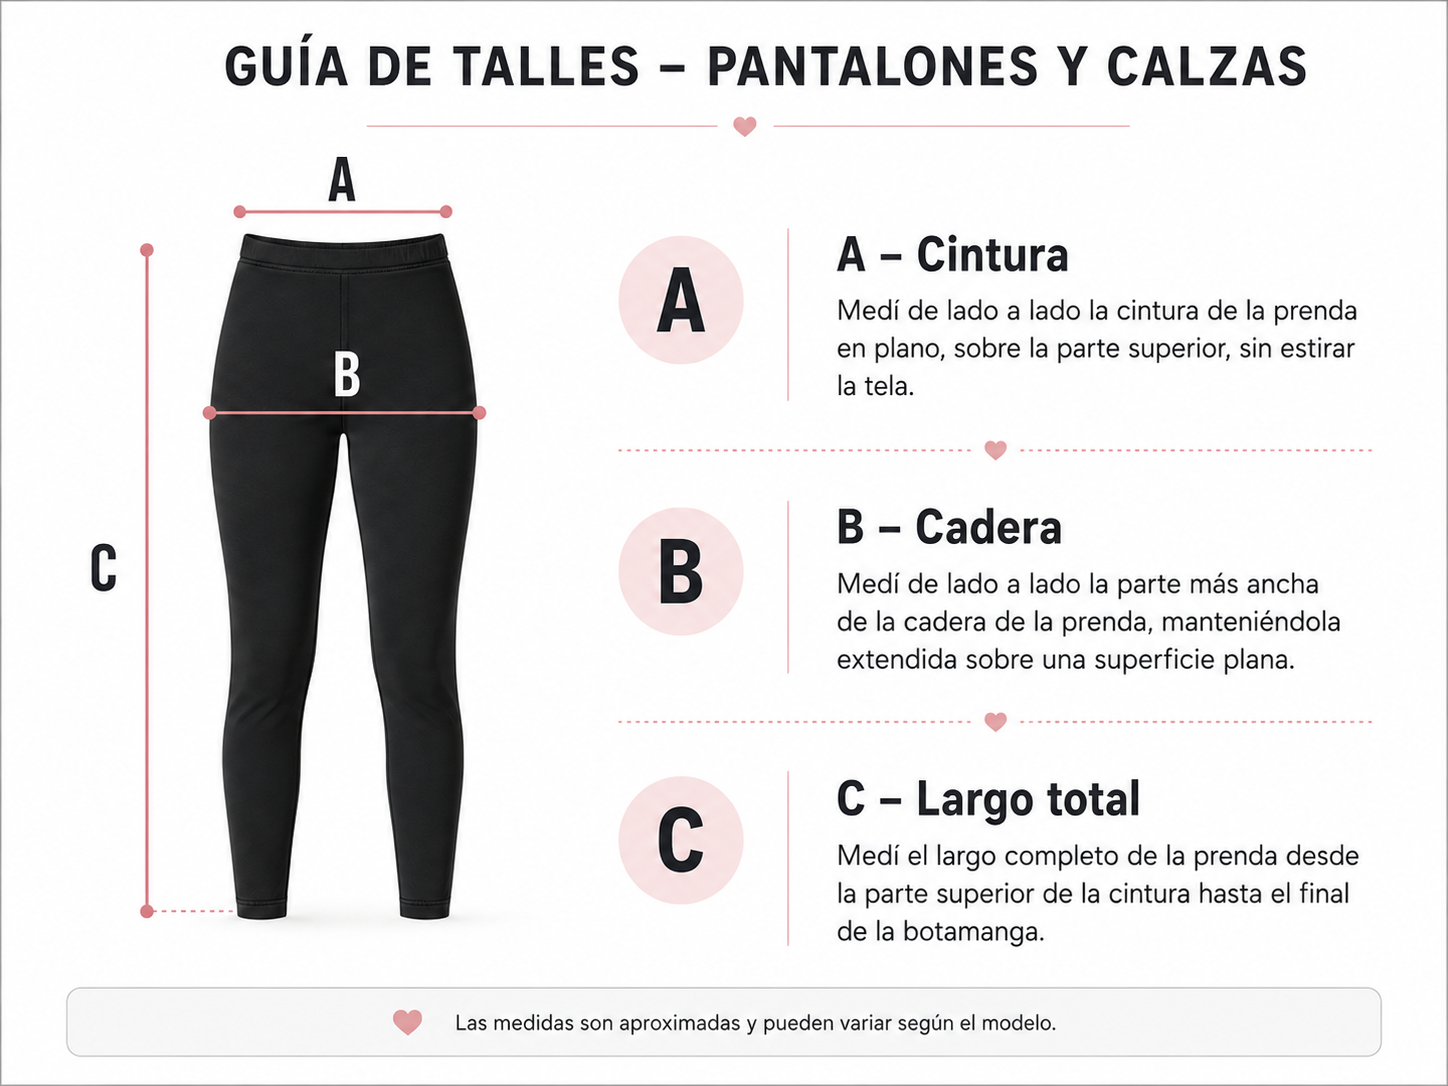
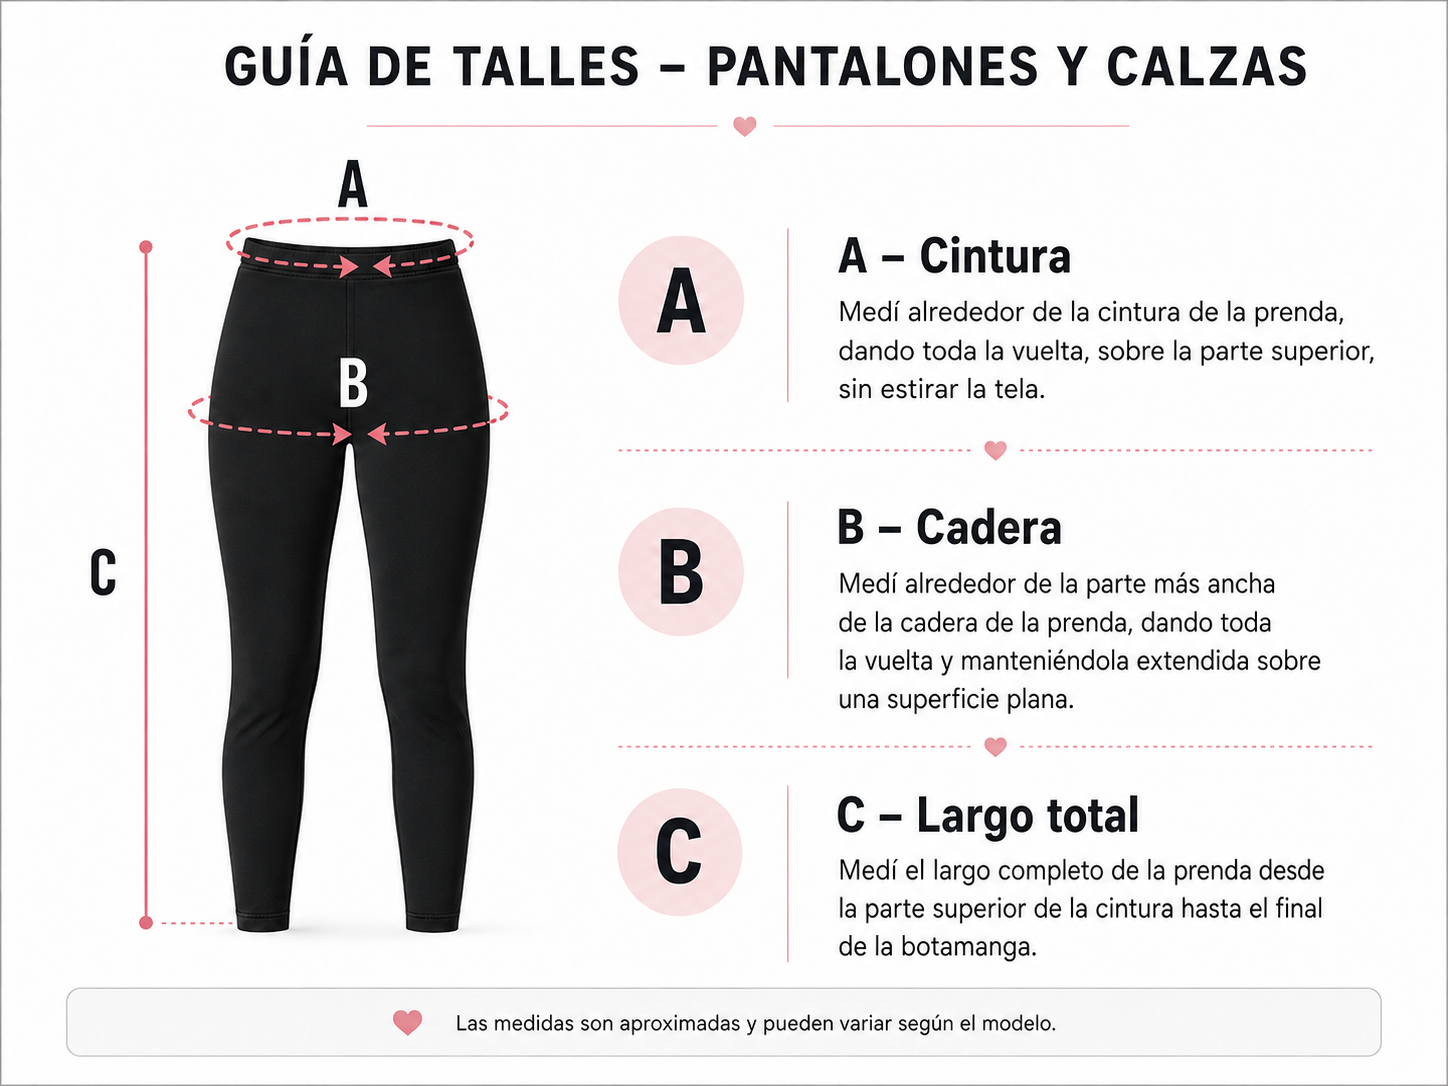
update tablas

diff --git a/frontend/public/ayuda.html b/frontend/public/ayuda.html
@@ -684,14 +684,14 @@
                   <tr><th>Talle</th><th>A (Cintura)</th><th>B (Cadera)</th><th>C (Largo total)</th></tr>
                 </thead>
                 <tbody>
-                  <tr><td>1</td><td>60-64</td><td>86-90</td><td>98</td></tr>
-                  <tr><td>2</td><td>64-68</td><td>90-94</td><td>99</td></tr>
-                  <tr><td>3</td><td>68-72</td><td>94-98</td><td>100</td></tr>
-                  <tr><td>4</td><td>72-76</td><td>98-102</td><td>101</td></tr>
-                  <tr><td>5</td><td>76-80</td><td>102-106</td><td>102</td></tr>
-                  <tr><td>6</td><td>80-84</td><td>106-110</td><td>103</td></tr>
-                  <tr><td>7</td><td>84-88</td><td>110-114</td><td>104</td></tr>
-                  <tr><td>8</td><td>88-92</td><td>114-118</td><td>105</td></tr>
+                  <tr><td>1</td><td>74-78</td><td>98-102</td><td>109</td></tr>
+                  <tr><td>2</td><td>78-82</td><td>102-106</td><td>110</td></tr>
+                  <tr><td>3</td><td>82-86</td><td>106-110</td><td>111</td></tr>
+                  <tr><td>4</td><td>86-90</td><td>110-114</td><td>112</td></tr>
+                  <tr><td>5</td><td>90-94</td><td>114-118</td><td>113</td></tr>
+                  <tr><td>6</td><td>94-98</td><td>118-122</td><td>114</td></tr>
+                  <tr><td>7</td><td>98-102</td><td>122-126</td><td>115</td></tr>
+                  <tr><td>8</td><td>102-106</td><td>126-130</td><td>116</td></tr>
                 </tbody>
               </table>
             </div>
@@ -709,14 +709,14 @@
                   <tr><th>Talle</th><th>A (Busto)</th><th>B (Cintura)</th><th>C (Largo total)</th></tr>
                 </thead>
                 <tbody>
-                  <tr><td>1</td><td>80-84</td><td>60-64</td><td>60</td></tr>
-                  <tr><td>2</td><td>84-88</td><td>64-68</td><td>61</td></tr>
-                  <tr><td>3</td><td>88-92</td><td>68-72</td><td>62</td></tr>
-                  <tr><td>4</td><td>92-96</td><td>72-76</td><td>63</td></tr>
-                  <tr><td>5</td><td>96-100</td><td>76-80</td><td>64</td></tr>
-                  <tr><td>6</td><td>100-104</td><td>80-84</td><td>65</td></tr>
-                  <tr><td>7</td><td>104-108</td><td>84-88</td><td>66</td></tr>
-                  <tr><td>8</td><td>108-112</td><td>88-92</td><td>67</td></tr>
+                  <tr><td>1</td><td>92-96</td><td>88-92</td><td>61</td></tr>
+                  <tr><td>2</td><td>96-100</td><td>92-96</td><td>62</td></tr>
+                  <tr><td>3</td><td>100-104</td><td>96-100</td><td>63</td></tr>
+                  <tr><td>4</td><td>104-108</td><td>100-104</td><td>64</td></tr>
+                  <tr><td>5</td><td>108-112</td><td>104-108</td><td>65</td></tr>
+                  <tr><td>6</td><td>112-116</td><td>108-112</td><td>66</td></tr>
+                  <tr><td>7</td><td>116-120</td><td>112-116</td><td>67</td></tr>
+                  <tr><td>8</td><td>120-124</td><td>116-120</td><td>68</td></tr>
                 </tbody>
               </table>
             </div>
@@ -739,14 +739,14 @@
                   <tr><th>Talle</th><th>A (Cintura)</th><th>B (Cadera)</th><th>C (Largo total)</th></tr>
                 </thead>
                 <tbody>
-                  <tr><td>1</td><td>70-74</td><td>90-94</td><td>102</td></tr>
-                  <tr><td>2</td><td>74-78</td><td>94-98</td><td>103</td></tr>
-                  <tr><td>3</td><td>78-82</td><td>98-102</td><td>104</td></tr>
-                  <tr><td>4</td><td>82-86</td><td>102-106</td><td>105</td></tr>
-                  <tr><td>5</td><td>86-90</td><td>106-110</td><td>106</td></tr>
-                  <tr><td>6</td><td>90-94</td><td>110-114</td><td>107</td></tr>
-                  <tr><td>7</td><td>94-98</td><td>114-118</td><td>108</td></tr>
-                  <tr><td>8</td><td>98-102</td><td>118-122</td><td>109</td></tr>
+                  <tr><td>1</td><td>74-78</td><td>112-116</td><td>104</td></tr>
+                  <tr><td>2</td><td>78-82</td><td>116-120</td><td>105</td></tr>
+                  <tr><td>3</td><td>82-86</td><td>120-124</td><td>106</td></tr>
+                  <tr><td>4</td><td>86-90</td><td>124-128</td><td>107</td></tr>
+                  <tr><td>5</td><td>90-94</td><td>128-132</td><td>108</td></tr>
+                  <tr><td>6</td><td>94-98</td><td>132-136</td><td>109</td></tr>
+                  <tr><td>7</td><td>98-102</td><td>136-140</td><td>110</td></tr>
+                  <tr><td>8</td><td>102-106</td><td>140-144</td><td>111</td></tr>
                 </tbody>
               </table>
             </div>
@@ -764,14 +764,14 @@
                   <tr><th>Talle</th><th>A (Busto)</th><th>B (Cintura)</th><th>C (Largo total)</th></tr>
                 </thead>
                 <tbody>
-                  <tr><td>1</td><td>88-92</td><td>70-74</td><td>65</td></tr>
-                  <tr><td>2</td><td>92-96</td><td>74-78</td><td>66</td></tr>
-                  <tr><td>3</td><td>96-100</td><td>78-82</td><td>67</td></tr>
-                  <tr><td>4</td><td>100-104</td><td>82-86</td><td>68</td></tr>
-                  <tr><td>5</td><td>104-108</td><td>86-90</td><td>69</td></tr>
-                  <tr><td>6</td><td>108-112</td><td>90-94</td><td>70</td></tr>
-                  <tr><td>7</td><td>112-116</td><td>94-98</td><td>71</td></tr>
-                  <tr><td>8</td><td>116-120</td><td>98-102</td><td>72</td></tr>
+                  <tr><td>1</td><td>104-108</td><td>100-104</td><td>66</td></tr>
+                  <tr><td>2</td><td>108-112</td><td>104-108</td><td>67</td></tr>
+                  <tr><td>3</td><td>112-116</td><td>108-112</td><td>68</td></tr>
+                  <tr><td>4</td><td>116-120</td><td>112-116</td><td>69</td></tr>
+                  <tr><td>5</td><td>120-124</td><td>116-120</td><td>70</td></tr>
+                  <tr><td>6</td><td>124-128</td><td>120-124</td><td>71</td></tr>
+                  <tr><td>7</td><td>128-132</td><td>124-128</td><td>72</td></tr>
+                  <tr><td>8</td><td>132-136</td><td>128-132</td><td>73</td></tr>
                 </tbody>
               </table>
             </div>